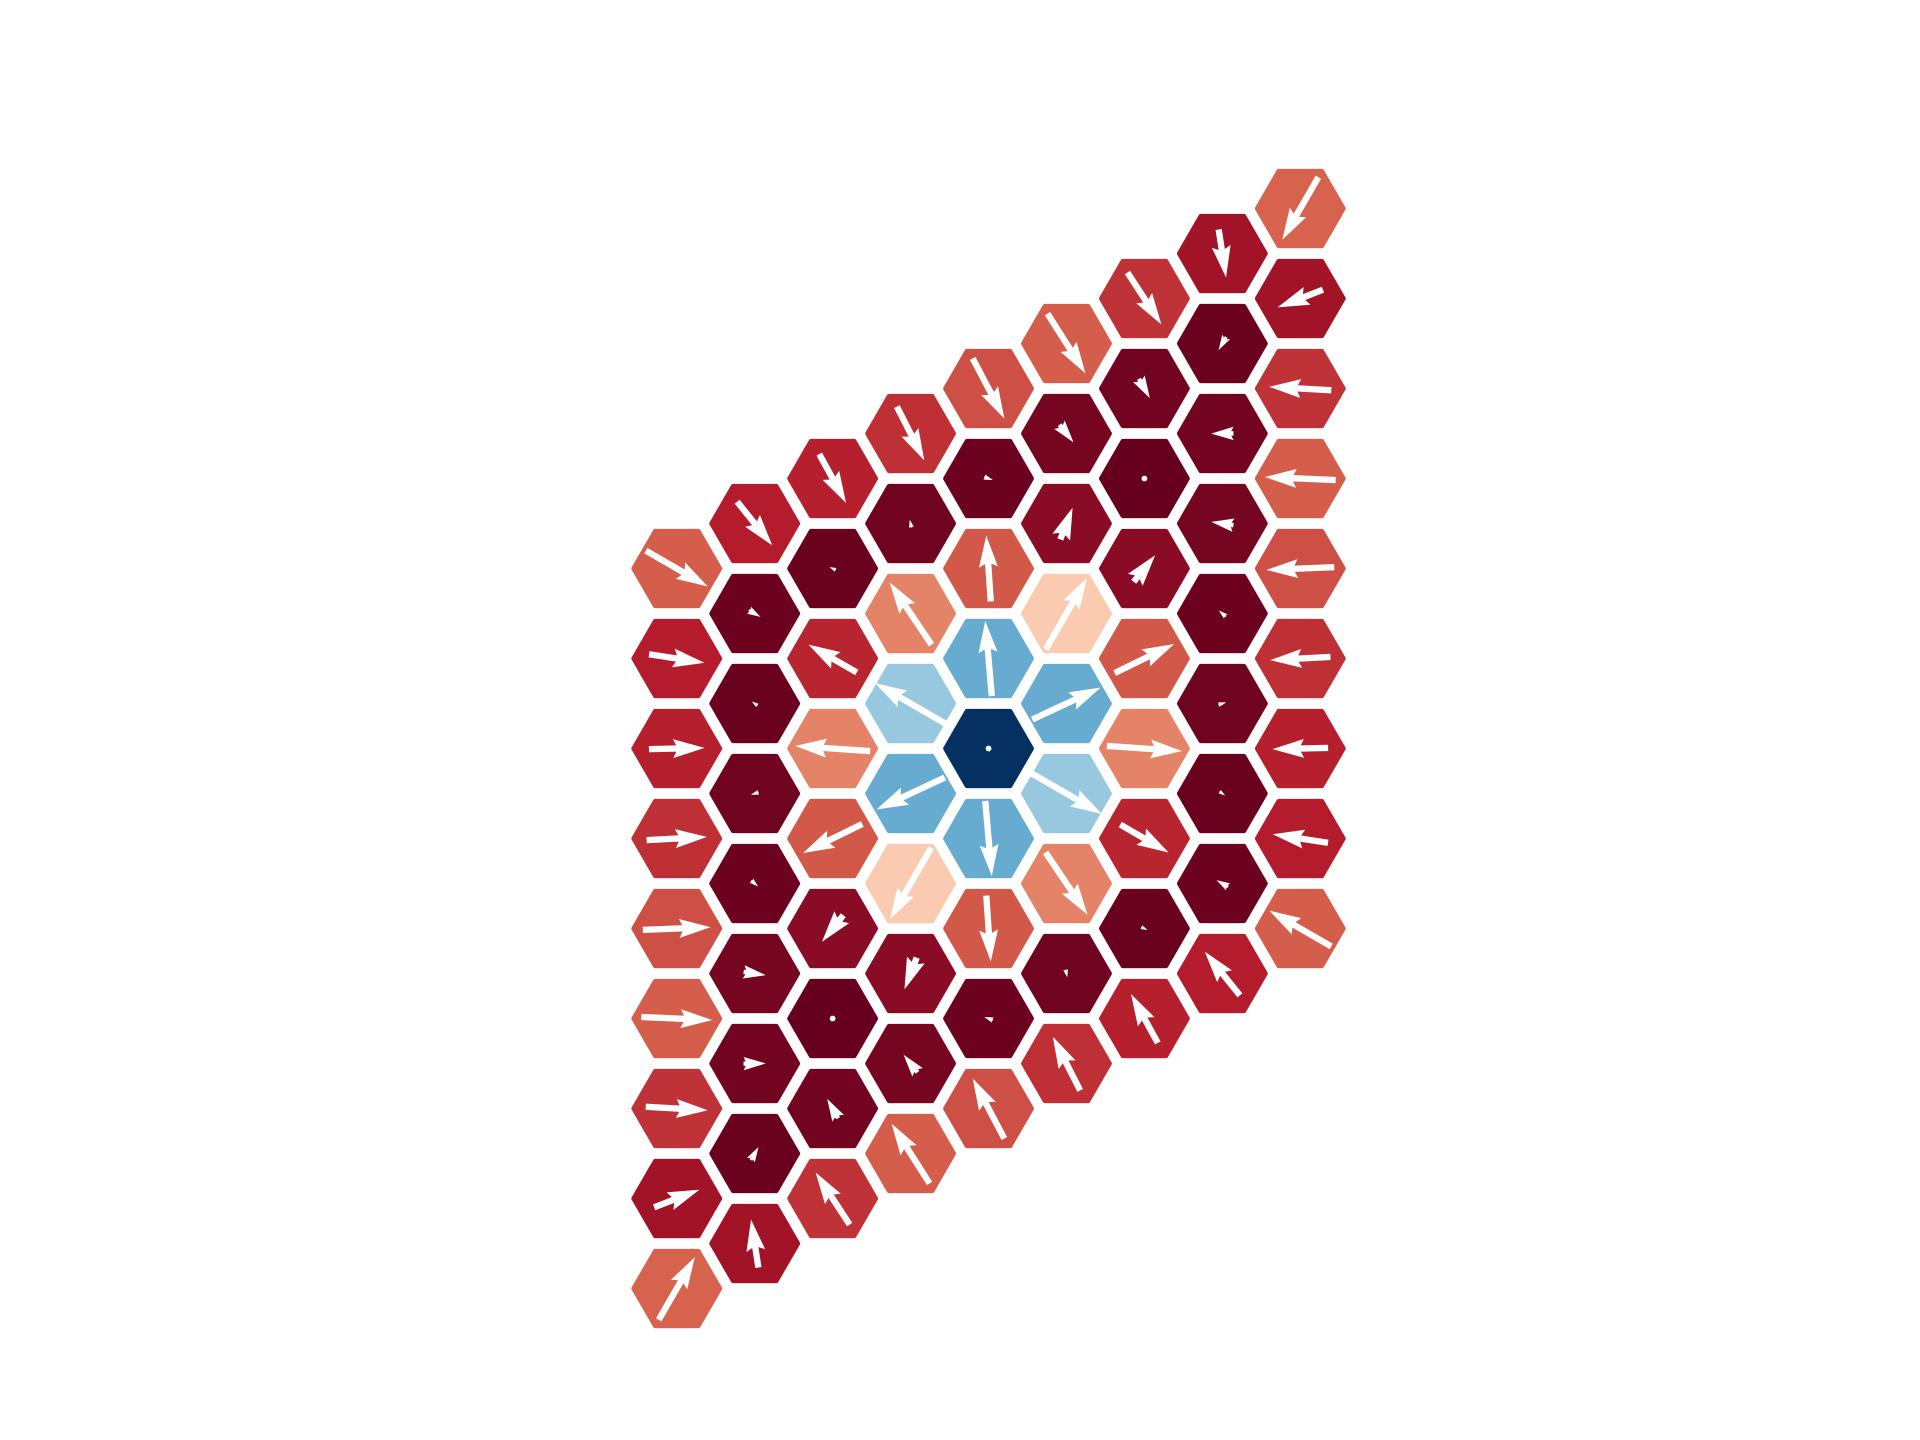
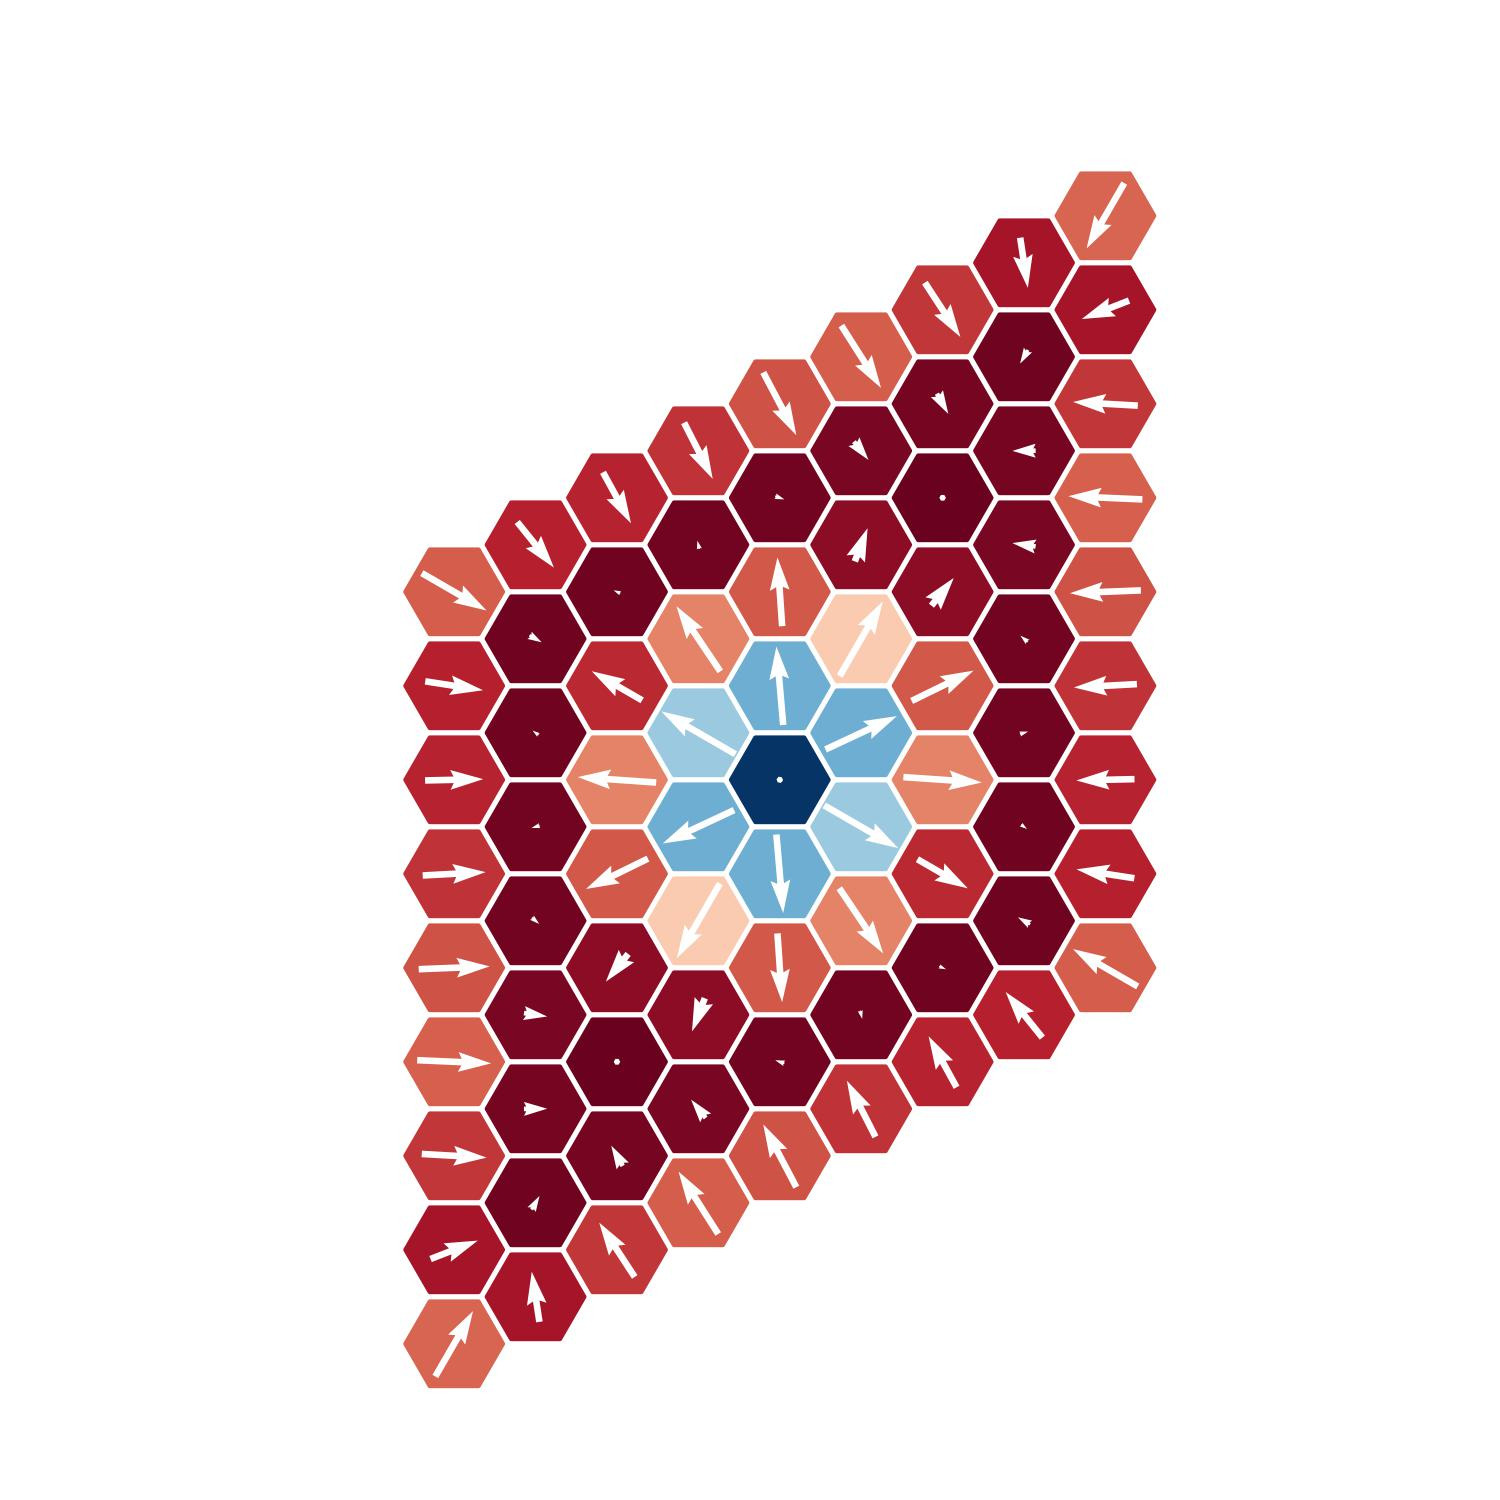
.

Changed region(s): [[0.2453, 0.0938, 0.7667, 0.9375]]

diff --git a/measure.py b/measure.py
@@ -11,32 +11,36 @@ from tenpy.tools import hdf5_io
 from DMI_model import MySpinModel
 
 import pandas as pd
+from glob import glob
 
 tenpy.tools.misc.setup_logging(to_stdout="INFO")
 
-fn_part = '2x2'
-with h5py.File(f"{fn_part}.h5", 'r') as f:
-    data = hdf5_io.load_from_hdf5(f)
+fns = glob('*.h5')
+print(fns)
+for fn in fns:
+    fn_part = fn[:-3]
+    with h5py.File(fn, 'r') as f:
+        data = hdf5_io.load_from_hdf5(f)
 
-psi = data['psi']
-M = data['model']
-exp_Sx = psi.expectation_value("Sx")
-exp_Sy = psi.expectation_value("Sy")
-exp_Sz = psi.expectation_value("Sz")
+    psi = data['psi']
+    M = data['model']
+    exp_Sx = psi.expectation_value("Sx")
+    exp_Sy = psi.expectation_value("Sy")
+    exp_Sz = psi.expectation_value("Sz")
 
-abs_exp_Svec = np.sqrt(np.power(exp_Sx,2) + np.power(exp_Sy,2) + np.power(exp_Sz,2))
-vmin = np.min(abs_exp_Svec)
-vmax = np.max(abs_exp_Svec)
+    abs_exp_Svec = np.sqrt(np.power(exp_Sx,2) + np.power(exp_Sy,2) + np.power(exp_Sz,2))
+    vmin = np.min(abs_exp_Svec)
+    vmax = np.max(abs_exp_Svec)
 
-pos = np.asarray([M.lat.position(M.lat.mps2lat_idx(i)) for i in range(psi.L)])
-pos_av = np.mean(pos)
-pos = pos - pos_av
+    pos = np.asarray([M.lat.position(M.lat.mps2lat_idx(i)) for i in range(psi.L)])
+    pos_av = np.mean(pos)
+    pos = pos - pos_av
 
-df = pd.DataFrame()
-df['x'] = pos[:,0]
-df['y'] = pos[:,1]
-df['Sx'] = exp_Sx
-df['Sy'] = exp_Sy
-df['Sz'] = exp_Sz
+    df = pd.DataFrame()
+    df['x'] = pos[:,0]
+    df['y'] = pos[:,1]
+    df['Sx'] = exp_Sx
+    df['Sy'] = exp_Sy
+    df['Sz'] = exp_Sz
 
-df.to_csv(f'{fn_part}.csv')
+    df.to_csv(f'{fn_part}.csv')

diff --git a/skyrmions.py b/skyrmions.py
@@ -15,13 +15,13 @@ import pandas as pd
 tenpy.tools.misc.setup_logging(to_stdout="INFO")
 
 Bx = By = 0.0
-Bz = -0.5
+Bz = -2.0
 D = 1.0
 Jx = Jy = Jz = -0.5
 
-bc_MPS, N_sweeps, bond_dim = 'infinite', 100, 128
-lattice, mkr, sze, L = 'Square', 's', 500, 15
-# lattice, mkr, sze, L = 'Triangular', 'H', 500, 5
+bc_MPS, N_sweeps, E_tol, bond_dim = 'infinite', 1000, 1e-10, 64
+lattice, mkr, sze, L = 'Square', 's', 500, 9
+lattice, mkr, sze, L = 'Triangular', 'H', 500, 9
 
 if bc_MPS == 'infinite':
     bc_lat_x = 'periodic'
@@ -60,7 +60,7 @@ dmrg_params = {
         'N_cache': 20,  # keep the states during Lanczos in memory
         'reortho': False,
     },
-    'max_E_err': 1.e-6,
+    'max_E_err': E_tol,
     'max_sweeps': N_sweeps,
     'trunc_params': {
         'chi_max': bond_dim,
@@ -106,7 +106,7 @@ plt.tight_layout()
 plt.savefig("snap.jpg", dpi=300)
 plt.close()
 
-data = {"psi": psi,  # e.g. an MPS
+data = {"psi": psi,
         "model": M,
         "parameters": model_params}
 

diff --git a/plot_snap.py b/plot_snap.py
@@ -4,7 +4,9 @@ import numpy as np
 from glob import glob
 
 lobs_files = glob('*.csv')
-for fn in lobs_files:
+print(lobs_files)
+mkrs, szes = ['H', 's', 'H', 'H', 'H'], [160, 1000, 550, 550, 550]
+for (fn, mkr, sze) in zip(lobs_files, mkrs, szes):
     df = pd.read_csv(fn)
 
     abs_exp_Svec = np.sqrt(np.power(df['Sx'],2) + np.power(df['Sy'],2) + np.power(df['Sz'],2))
@@ -13,8 +15,8 @@ for fn in lobs_files:
 
     rmax = np.max(df['x']**2+df['y']**2)
 
-    fig, ax = plt.subplots(1,1)
-    ax.scatter(df['x'], df['y'], marker='H', s=25000/rmax, cmap='RdBu_r', c=df['Sz'])
+    fig, ax = plt.subplots(1,1, figsize=(5,5))
+    ax.scatter(df['x'], df['y'], marker=mkr, s=sze, cmap='RdBu_r', c=df['Sz'], vmin=-0.5, vmax=0.5)
     ax.quiver(df['x'], df['y'], df['Sx'], df['Sy'], units='xy', width=0.07, scale=vmax, pivot='middle', color='white')
     ax.set_aspect('equal')
 
